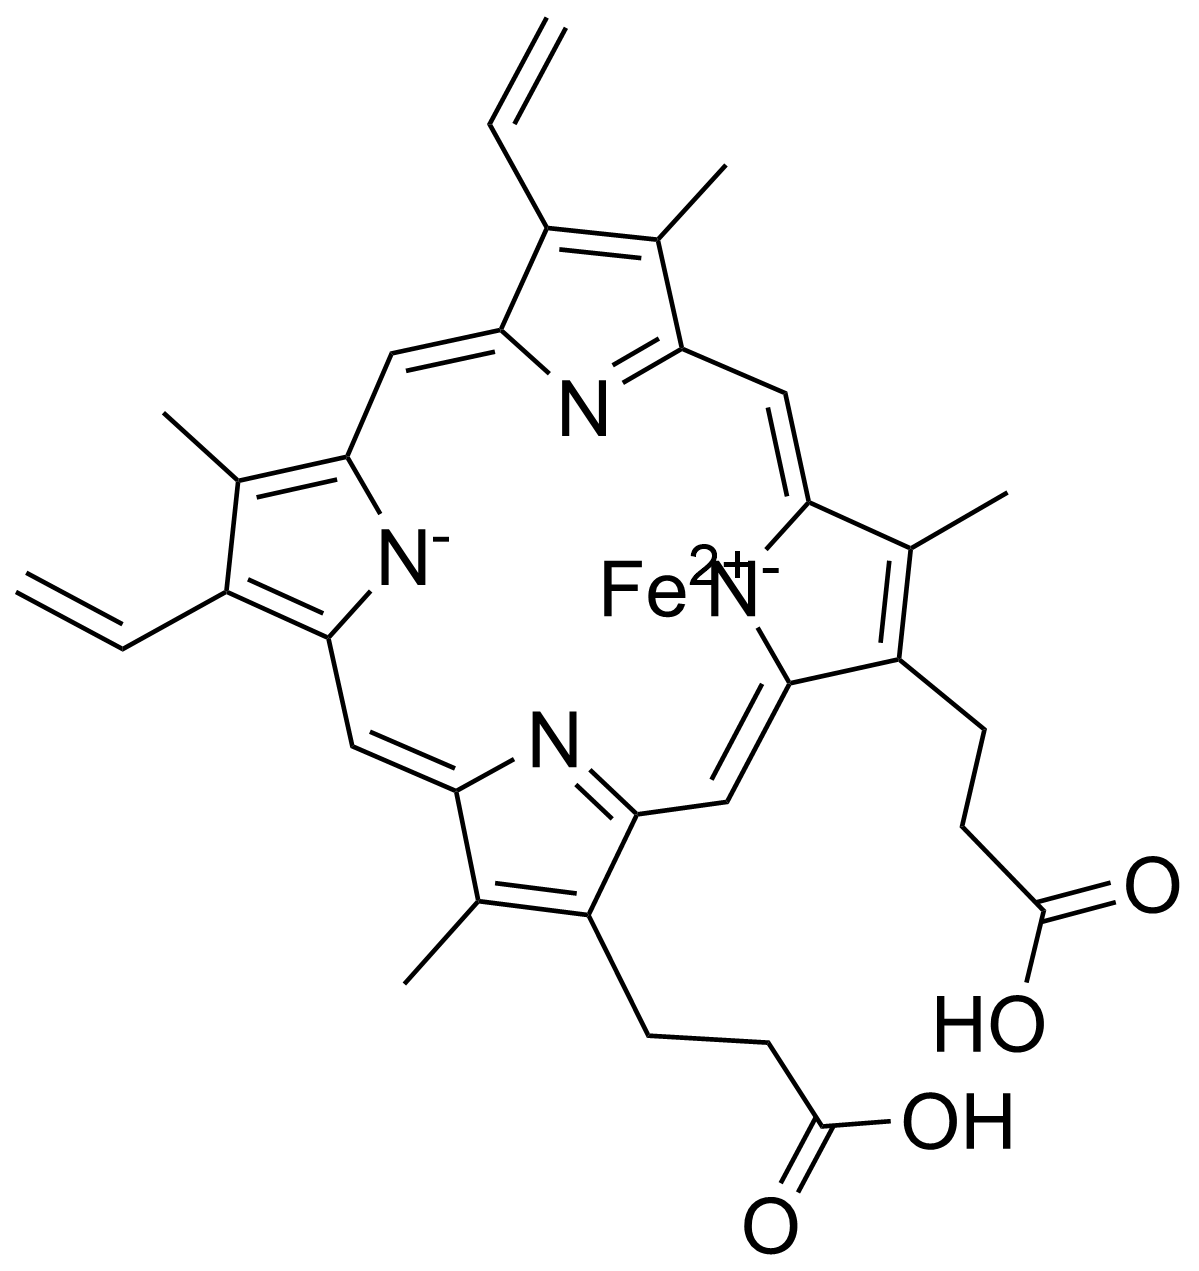
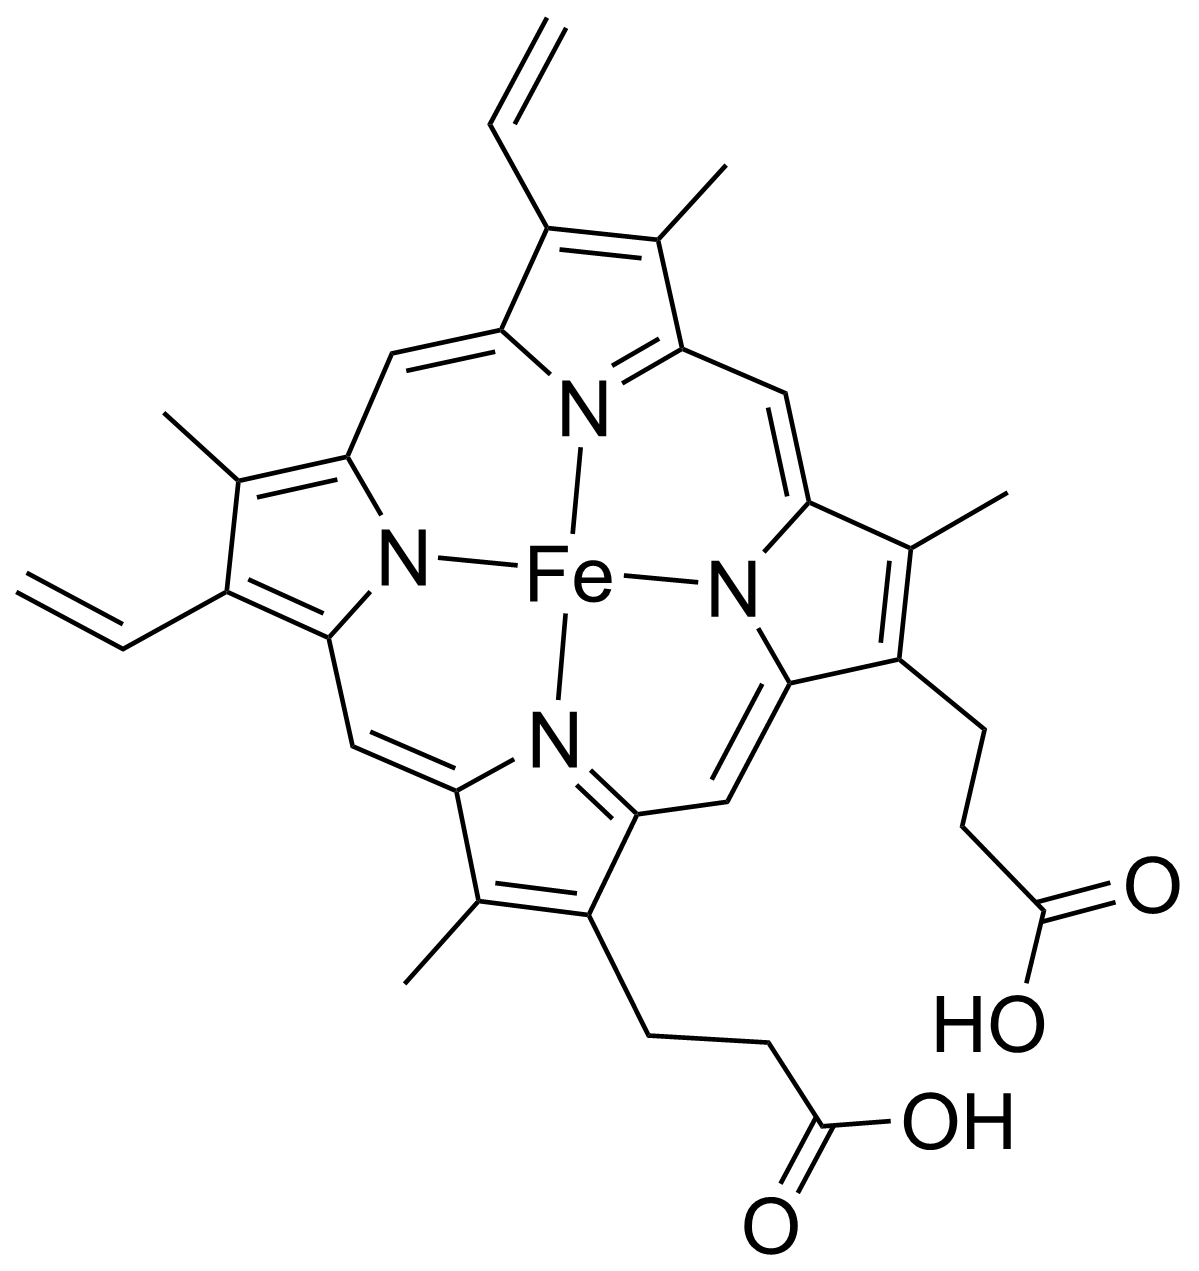
v1.1: weight compact organics and publish the redrawn complexes.

Changed region(s): [[0.3703, 0.3682, 0.648, 0.5523]]

diff --git a/tools/eval_ocsr.py b/tools/eval_ocsr.py
@@ -35,11 +35,40 @@ import os
 import sys
 
 from rdkit import Chem, RDLogger
+from rdkit.Chem.MolStandardize import rdMolStandardize
 
 RDLogger.DisableLog("rdApp.*")
 ROOT = os.path.dirname(os.path.dirname(os.path.abspath(__file__)))
 TAGS = ["has_bridged_ring", "has_spiro", "has_macrocycle", "has_cage",
         "is_stereo_dense", "is_large", "is_organometallic"]
+
+# v1.1 headline: organic compounds, with compact structures down-weighted.
+# Coordination is reported on its own and does not enter this score.
+COMPACT_WEIGHT = 0.25
+COMPACT_MAX_HEAVY = 20
+COMPACT_MAX_STEREO = 2
+_TAUT = rdMolStandardize.TautomerEnumerator()
+_TAUT_CACHE = {}
+_PARTS = None
+
+
+def _coord_parts():
+    """Depiction keys for redrawn complexes. Missing file -> no parts score."""
+    global _PARTS
+    if _PARTS is None:
+        path = os.path.join(ROOT, "data", "coord_parts.json")
+        if os.path.exists(path):
+            with open(path, encoding="utf-8") as fh:
+                _PARTS = json.load(fh)
+        else:
+            _PARTS = {}
+    return _PARTS
+
+
+def _parts_key(parts):
+    if not parts:
+        return None
+    return (tuple(parts.get("metals") or ()), tuple(parts.get("ligands") or ()))
 
 
 def load_rows(path):
@@ -69,6 +98,38 @@ def canon(smi, iso=True):
     if m is None or m.GetNumAtoms() == 0:
         return None
     return Chem.MolToSmiles(m, isomericSmiles=iso)
+
+
+def is_compact(row):
+    """Small organic structures. They stay in the headline at COMPACT_WEIGHT."""
+    if row.get("subset") != "organic" or row.get("is_organometallic"):
+        return False
+    heavy, stereo = row.get("n_heavy_atoms"), row.get("n_stereo_assigned")
+    if heavy is None or stereo is None:
+        return False
+    return int(heavy) <= COMPACT_MAX_HEAVY and int(stereo) <= COMPACT_MAX_STEREO
+
+
+def organic_weight(row):
+    if row.get("subset") != "organic":
+        return 0.0
+    return COMPACT_WEIGHT if is_compact(row) else 1.0
+
+
+def tautomer_key(smi):
+    """Canonical-tautomer InChIKey. Empty or huge inputs are not enumerated."""
+    if smi in _TAUT_CACHE:
+        return _TAUT_CACHE[smi]
+    key = None
+    m = Chem.MolFromSmiles(smi or "")
+    if m is not None and 0 < m.GetNumAtoms() <= 80:
+        try:
+            parent = _TAUT.Canonicalize(m)
+            key = Chem.MolToInchiKey(parent)
+        except Exception:
+            key = None
+    _TAUT_CACHE[smi] = key
+    return key
 
 
 def inchikey(smi):
@@ -129,6 +190,7 @@ def score_predictions(manifest_path, predictions_path):
         return {
             "group": name, "n": sum(1 for r in rows if "valid" in r),
             "valid": rate(rows, "valid"), "exact": rate(rows, "exact"),
+            "tautomer": rate(rows, "tautomer"),
             "connectivity": rate(rows, "connectivity"),
             "inchikey_skel": rate(rows, "inchikey_skel"),
             "inchikey_full": rate(rows, "inchikey_full"),
@@ -147,22 +209,35 @@ def score_predictions(manifest_path, predictions_path):
         truth = ref["smiles_isomeric"]
         c_pred, c_true = canon(pred), canon(truth)
         ik_p, ik_t = inchikey(pred), inchikey(truth)
-        results.append({
+        tk_p, tk_t = tautomer_key(pred), tautomer_key(truth)
+        gt_parts = _coord_parts().get(ref["compound_id"])
+        pred_parts = None
+        if gt_parts:
+            from coord_depict import parts_from_smiles
+            pred_parts = parts_from_smiles(pred)
+        row = {
             "image_id": ref["image_id"],
             "image_path": ref["image_path"],
             "compound_id": ref["compound_id"],
             "subset": ref["subset"],
             "template": ref["template"],
             "variant": ref["variant"],
+            "n_heavy_atoms": ref.get("n_heavy_atoms"),
+            "n_stereo_assigned": ref.get("n_stereo_assigned"),
             "valid": c_pred is not None,
             "exact": bool(c_pred and c_true and c_pred == c_true),
+            "tautomer": bool(tk_p and tk_t and tk_p == tk_t),
             "connectivity": bool(canon(pred, False) and canon(truth, False)
                                  and canon(pred, False) == canon(truth, False)),
             "inchikey_full": bool(ik_p and ik_t and ik_p == ik_t),
             "inchikey_skel": bool(ik_p and ik_t and ik_p[:14] == ik_t[:14]),
+            "parts": bool(gt_parts and _parts_key(pred_parts) == _parts_key(gt_parts)),
             "prediction": pred,
             **{t: ref.get(t) for t in TAGS},
-        })
+        }
+        row["is_compact"] = is_compact(row)
+        row["weight"] = organic_weight(row)
+        results.append(row)
 
     scored = [r for r in results if "valid" in r]
     summary = [block("ALL", scored)]
@@ -176,17 +251,56 @@ def score_predictions(manifest_path, predictions_path):
     hard = [r for r in scored if r.get("has_bridged_ring") and r.get("is_stereo_dense")]
     if hard:
         summary.append(block("tag=bridged+stereo_dense", hard))
+    organic = [r for r in scored if r.get("subset") == "organic"]
+    summary.insert(0, compound_block("organic_weighted", organic, organic_weight))
+    summary.insert(1, compound_block(
+        "organic_compact", [r for r in organic if r.get("is_compact")],
+        lambda r: 1.0))
+    summary.insert(2, compound_block(
+        "coordination", [r for r in scored if r.get("subset") == "coordination"],
+        lambda r: 1.0))
     return results, summary, preds
 
 
+def compound_block(name, rows, weight_fn):
+    """One rate per compound, then a weighted mean. `n` is the compound count."""
+    grouped = collections.defaultdict(list)
+    for row in rows:
+        grouped[row["compound_id"]].append(row)
+    buckets = {k: [] for k in ("valid", "exact", "tautomer", "connectivity",
+                               "inchikey_skel", "inchikey_full", "parts")}
+    weights = []
+    for items in grouped.values():
+        weight = float(weight_fn(items[0]))
+        if weight <= 0:
+            continue
+        weights.append(weight)
+        for field in buckets:
+            buckets[field].append(sum(bool(i.get(field)) for i in items) / len(items))
+    total = sum(weights) or 1.0
+
+    def avg(vals):
+        return sum(w * v for w, v in zip(weights, vals)) / total if weights else 0.0
+
+    out = {field: avg(vals) for field, vals in buckets.items()}
+    out.update({"group": name, "n": len(weights), "unit": "compound",
+                "weight_sum": round(sum(weights), 3)})
+    return out
+
+
 def print_summary(summary):
-    w = "{:<32} {:>7} {:>8} {:>8} {:>8} {:>10} {:>10}"
-    print(w.format("group", "n", "valid", "exact", "conn", "ikey_skel", "ikey_full"))
-    print("-" * 88)
+    w = "{:<32} {:>7} {:>8} {:>8} {:>8} {:>8} {:>10} {:>10}"
+    print(w.format("group", "n", "valid", "exact", "taut", "conn", "ikey_skel", "ikey_full"))
+    print("-" * 100)
     for b in summary:
-        print(w.format(b["group"], b["n"], f"{b['valid']:.3f}", f"{b['exact']:.3f}",
-                       f"{b['connectivity']:.3f}", f"{b['inchikey_skel']:.3f}",
-                       f"{b['inchikey_full']:.3f}"))
+        unit = " cmp" if b.get("unit") == "compound" else ""
+        print(w.format(
+            b["group"], str(b["n"]) + unit, f"{b['valid']:.3f}", f"{b['exact']:.3f}",
+            f"{b.get('tautomer', 0):.3f}", f"{b['connectivity']:.3f}",
+            f"{b['inchikey_skel']:.3f}", f"{b['inchikey_full']:.3f}"))
+        if b.get("weight_sum") is not None and b["group"] == "organic_weighted":
+            print(f"  weights: compact {COMPACT_WEIGHT}, others 1; "
+                  f"weight sum {b['weight_sum']}")
 
 
 if __name__ == "__main__":

diff --git a/tools/compare_models.py b/tools/compare_models.py
@@ -20,7 +20,8 @@ import os
 import sys
 
 sys.path.insert(0, os.path.dirname(os.path.abspath(__file__)))
-from eval_ocsr import score_predictions, load_rows  # noqa: E402
+from eval_ocsr import (score_predictions, load_rows, compound_block,  # noqa: E402
+                       organic_weight, COMPACT_WEIGHT)
 
 ROOT = os.path.dirname(os.path.dirname(os.path.abspath(__file__)))
 DEFAULT_MANIFEST = os.path.join(ROOT, "benchmark", "manifest_all.jsonl")
@@ -116,13 +117,38 @@ def main():
         lines.append("Per-model absolute numbers (models may cover different subsets).")
     lines.append("")
 
-    # ---- headline ----------------------------------------------------
+    # ---- v1.1 headline: organic compounds, compact weight 0.25 ----------
+    rows = []
+    for name in names:
+        organic = [r for r in rows_for(name) if r.get("subset") == "organic"]
+        coord = [r for r in rows_for(name) if r.get("subset") == "coordination"]
+        w = compound_block("organic_weighted", organic, organic_weight)
+        c = compound_block("coordination", coord, lambda r: 1.0)
+        rows.append([name, w["n"], f"{w['weight_sum']}", pct(w["exact"]),
+                     pct(w["tautomer"]), pct(w["connectivity"]),
+                     c["n"], pct(c["exact"]), pct(c.get("parts", 0))])
+    lines += [
+        "## v1.1 headline",
+        "",
+        f"Organic compounds only. Compact structures (≤20 heavy atoms and ≤2 "
+        f"stereocentres) have weight {COMPACT_WEIGHT}; every other organic "
+        f"compound has weight 1. `n` is compounds, and each compound is the "
+        f"mean of its images before the weights are applied. Coordination is "
+        f"scored separately and is not in the organic number. `tautomer %` "
+        f"counts a prediction that is the same molecule in another tautomer.",
+        "",
+        table(["model", "organic n", "weight sum", "exact %", "tautomer %",
+               "connectivity %", "coord n", "coord exact %", "coord parts %"], rows),
+        "",
+    ]
+
+    # ---- image-level overall, kept so template tables stay comparable ----
     rows = []
     for name in names:
         m = metrics(rows_for(name))
         rows.append([name, m["n"], pct(m["valid"]), pct(m["exact"]),
                      pct(m["connectivity"]), pct(m["inchikey_full"])])
-    lines += ["## Overall", "",
+    lines += ["## Image-level overall", "",
               table(["model", "n", "valid %", "exact %", "connectivity %",
                      "InChIKey %"], rows), ""]
 

diff --git a/README.md b/README.md
@@ -34,7 +34,7 @@ image set is not redistributed.
 | recommended evaluation slice | **1,854** (`random_seed42`, see below) |
 | median / max heavy atoms | 38 / **236** (`maitotoxin`) |
 | median / max assigned stereocentres | 7 / **98** (`maitotoxin`) |
-| structure source | PubChem (100 %), cross-checked with Wikidata |
+| structure source | PubChem. Wikidata was checked; where the two skeletons disagreed, PubChem was kept |
 
 | group | compounds |
 |---|---|
@@ -167,12 +167,23 @@ The shipped slice `random_seed42` contains **1,854 images** (309 × 3 × 2):
 template slots 927 with `acs1996` at 30.0 %, variants roughly even at 356–392
 images each.
 
-It is representative: OCSRGlyph scores 21.3 % exact on the slice versus 21.6 %
-on the full grid, and MolSight 23.2 % on both.
+The v1.1 headline is not that image-micro average. It is the mean of each
+organic compound, with compact molecules (≤20 heavy atoms and ≤2 assigned
+stereocentres; 22 compounds) at weight 0.25. Coordination is scored separately.
+On this slice the organic exact rates are OCSRGlyph 18.0 %, TinyChemVL 14.6 %,
+MolSight 20.2 %, MolSight-stereo 19.1 %. Coordination, scored by ligand
+skeleton on the redrawn structures, is OCSRGlyph 30.3 %, TinyChemVL 3.5 %,
+MolSight 27.2 %, MolSight-stereo 37.7 %. The older 21.3 % / 23.2 % figures
+counted every image equally and included the coordination drawings from before
+they were redrawn.
 
 ---
 
 ## Baseline results
+
+The table below is the **v1.0 image-micro** average on the slice (every image
+weighted equally, including the coordination drawings from before the redraw).
+The v1.1 organic headline is in the previous section.
 
 Three open OCSR models, run end-to-end on the slice (all at full coverage,
 1,854 images):
@@ -280,14 +291,13 @@ and difficulty tag.
 
 ## Known limitations
 
-* **Coordination compounds.** Multi-centre bonding is not expressible in plain
-  SMILES. Following the PubChem convention the metal is often a separate
-  fragment or written with dative bonds, so `n_fragments > 1` on those rows is
-  expected. Sandwich complexes (ferrocene, cobaltocene …) are therefore drawn as
-  free rings plus the metal ion rather than with haptic bonds — a faithful
-  rendering of the deposited structure, but not the classical
-  metal-between-two-rings cartoon. They live in a separate subset and should be
-  scored on their own.
+* **Coordination compounds** are a separate score, not part of the headline.
+  Thirty-six of them were redrawn so the metal sits in a sandwich, a cavity,
+  or a chelate. Ferrocene is two cyclopentadienyl rings with iron between
+  them. Several deposited SMILES were the wrong molecule (manganocene as two
+  cyclopentanes, bis(benzene)chromium as a hexaanion) and those records were
+  replaced. A sandwich still has more than one valid SMILES, so the
+  coordination score matches ligand skeletons rather than one string.
 * **Mixtures are excluded.** Records stored as mixtures of homologues
   (ivermectin B1a/B1b, spinosad A/D) were rejected rather than rendered as two
   disconnected molecules.
